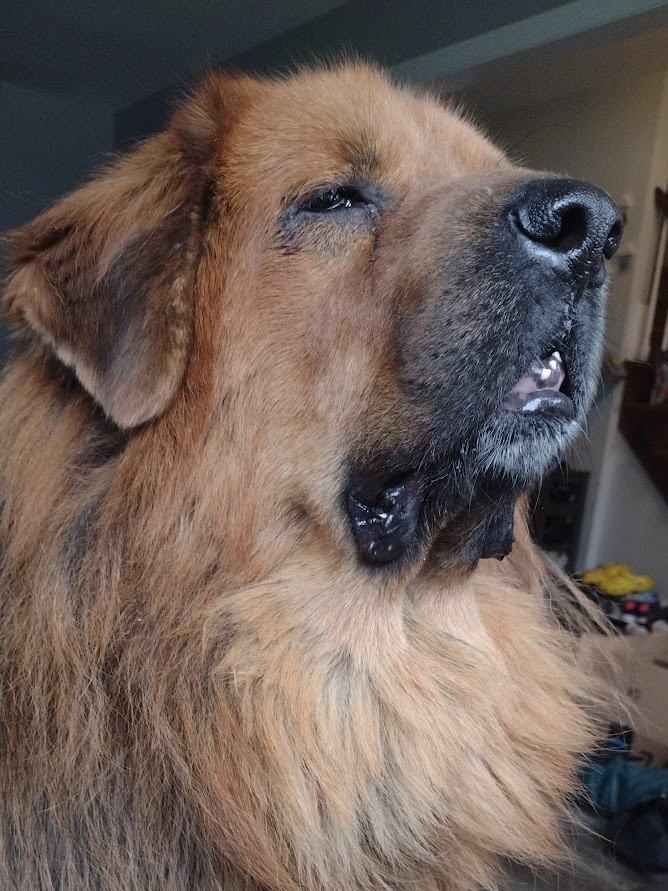
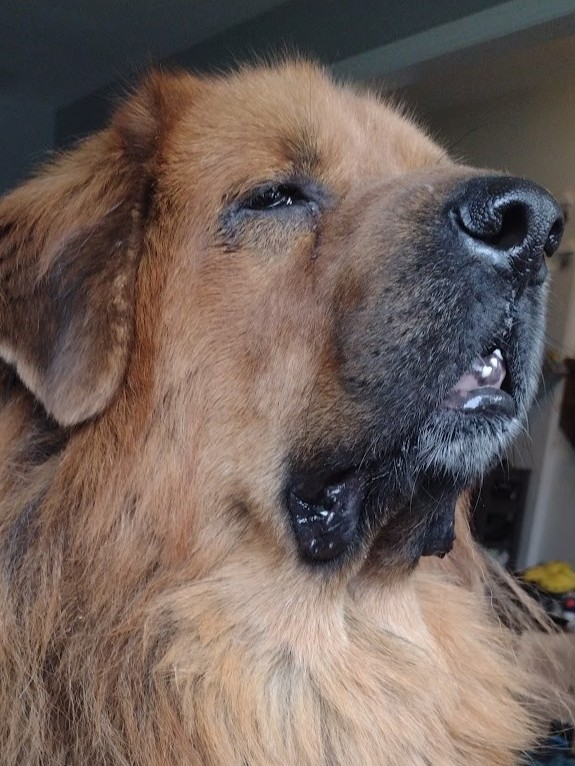
Changes image tumb size

diff --git a/index.html b/index.html
@@ -242,8 +242,8 @@
 										<img src="images/goof-gallery/thumbs/01.jpg" alt="" />
 									</a>
 									<div class="caption">
-										<h3>Hello Friend</h3>
-										<p>A majestic view from my comfy spot.  The world is my oyster (or, well, the floor).</p>
+										<h3>Nap Flop</h3>
+										<p>My jowls work well as blankets for my paws when I take an afternoon nap.</p>
 									</div>
 								</article>
 								<article>
@@ -251,8 +251,8 @@
 										<img src="images/goof-gallery/thumbs/02.jpg" alt="" />
 									</a>
 									<div class="caption">
-										<h3>Winter Thoughts</h3>
-										<p>Dreaming of squirrels and adventures beyond the glass while my drool freezes to the windowsill.</p>
+										<h3>I Loaf You</h3>
+										<p>I look like a loaf of bread when I nap on my belly.</p>
 									</div>
 								</article>
 								<article>
@@ -260,8 +260,8 @@
 										<img src="images/goof-gallery/thumbs/03.jpg" alt="" />
 									</a>
 									<div class="caption">
-										<h3>Shedding Season</h3>
-										<p>This is my contribution to the carpet's art collection.</p>
+										<h3>Bed Head</h3>
+										<p>When I wake up from a deep nap even my ear fur is messy.</p>
 									</div>
 								</article>
 								<article>
@@ -269,8 +269,8 @@
 										<img src="images/goof-gallery/thumbs/04.jpg" alt="" />
 									</a>
 									<div class="caption">
-										<h3>Majestic Floof</h3>
-										<p>I lounge against the house while I watch birds use my fur to build nests.</p>
+										<h3>Garlic Knot</h3>
+										<p>Sometimes when I sleep I twist myself into impossible positions.</p>
 									</div>
 								</article>
 								<article>
@@ -393,13 +393,13 @@
 							<ul class="icons">
 								<li><a href="https://www.instagram.com/atibetannamedchunk?igsh=MTUzOWs0OTRuaTQydw==" class="icon brands style2 fa-instagram"><span class="label">Instagram</span></a></li>
 								<li><a href="#" class="icon style2 fa-envelope"><span class="label">Email</span></a></li>
+								<p>&copy; Chunk Site Design: <a href="https://html5up.net">HTML5 UP</a>.</p>
 							</ul>
-							<p>&copy; Chunk Site Design: <a href="https://html5up.net">HTML5 UP</a>.</p>
+						</div>
 							<p>Icons: <a href="https://icons8.com/">Icons8</a></p>
 							<p>Fonts: <a href="https://fonts.google.com/">Google Fonts</a></p>
 							<p>All images are copyright of their respective owners.</p>
 							<p>Made with love by Devorah Aberman.</p>
-						</div>
 					</footer>
 
 			</div>
